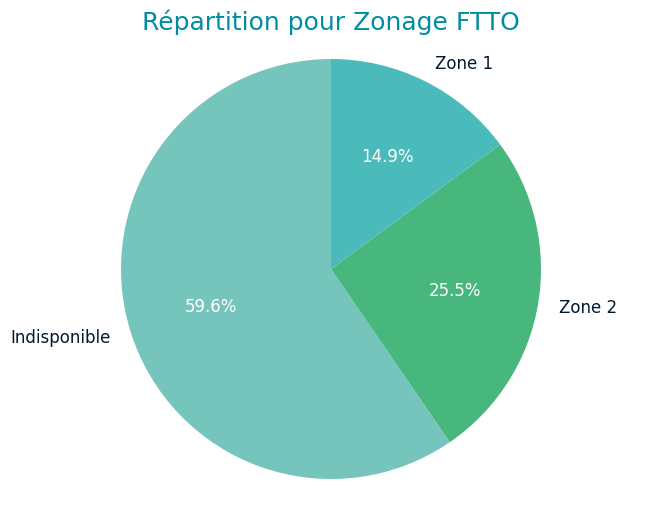
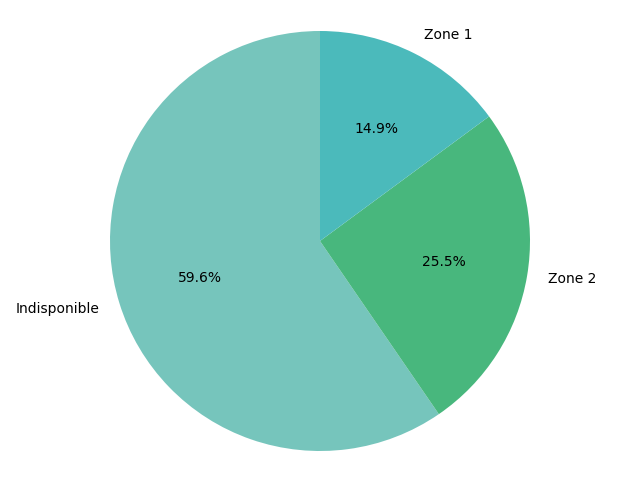
V1 Graph Generator

diff --git a/main.py b/main.py
@@ -1,73 +1,170 @@
-import os
+#############################
+#  By: Oscar Robert-Besle   #
+#  Last update : 3 May 2024 #
+#############################
+import tkinter as tk
+from tkinter import filedialog, messagebox, Checkbutton, IntVar, Scrollbar, Canvas
 import pandas as pd
 import matplotlib.pyplot as plt
-from reportlab.pdfgen import canvas
+from PIL import Image, ImageTk
+from PIL.Image import Resampling
+from reportlab.pdfgen import canvas as pdf_canvas
 from reportlab.lib.pagesizes import letter
 from reportlab.lib.units import inch
 from datetime import datetime
+import json
+import os
+import logging
 
-color_title = '#008DA2'  # Couleur du titre
-color_text = '#031930'  # Couleur des textes
-data_colors = ['#76C5BC','#48B77D','#4BBABB','#008DA2','#A9D249','#2B2171','#EAD83F','#EA504C']  # Couleurs des données
+APP_VERSION = "1.0.0"
+logging.basicConfig(level=logging.INFO, format='%(asctime)s - %(levelname)s - %(message)s')
 
-file_path = input("Veuillez entrer le chemin complet du fichier Excel : ")
+def load_config():
+    with open('config.json', 'r') as config_file:
+        return json.load(config_file)
 
-column_headers = ['Zonage FTTO', 'Choix Zonage FTTH - FTTO', 'Choix Zonage FTTH - FTTO - 4G']
+def load_data(file_path):
+    try:
+        df = pd.read_excel(file_path)
+        logging.info("Excel file loaded successfully.")
+        return df, df.columns.tolist()
+    except Exception as e:
+        messagebox.showerror("Error", f"Failed to load file: {str(e)}")
+        return None, []
 
-output_folder = 'rapports'
-os.makedirs(output_folder, exist_ok=True)
-
-logo_path = "logo.png"
-
-try:
-    df = pd.read_excel(file_path, sheet_name='Eligibilité_globale')
-    print("Fichier Excel chargé avec succès.")
-except Exception as e:
-    print(f"Erreur lors du chargement du fichier Excel : {e}")
-    exit()
-current_date = datetime.now().strftime('%Y_%m_%d')
-pdf_file_path = os.path.join(output_folder, f'Rapport_Analyse_{current_date}.pdf')
-c = canvas.Canvas(pdf_file_path, pagesize=letter)
-
-figsize = (8, 6)
-title_fontsize = 18
-autopct_fontsize = 12
-
-for header in column_headers:
-    if header in df.columns:
-        value_counts = df[header].value_counts()
-        if not value_counts.empty and value_counts.sum() > 0:
-            plt.figure(figsize=figsize)
-            patches, texts, autotexts = plt.pie(value_counts, labels=value_counts.index, autopct='%1.1f%%', startangle=90, colors=data_colors[:len(value_counts)])
-
-            for text in texts:
-                text.set_color(color_text)
-                text.set_fontsize(autopct_fontsize)
-            for autotext in autotexts:
-                autotext.set_color('white')
-                autotext.set_fontsize(autopct_fontsize)
-
-            plt.title(f'Répartition pour {header}', fontsize=title_fontsize, color=color_title)
-            plt.axis('equal')
-
-            img_file_path = os.path.join(output_folder, f'{header.replace(" - ", "_").replace(" ", "_")}.png')
-            plt.savefig(img_file_path, bbox_inches='tight')
-            plt.close()
-
-            c.setFont("Helvetica-Bold", title_fontsize)
-            c.setFillColor(color_title)
-            c.drawCentredString(letter[0] / 2, letter[1] - inch * 1.25, header)
-            c.drawImage(img_file_path, letter[0] / 2 - figsize[0] * inch / 2, letter[1] / 2 - figsize[1] * inch / 2 + 0.75 * inch, width=figsize[0] * inch, height=figsize[1] * inch, preserveAspectRatio=True)
-            c.setFont("Helvetica", 9)
-            c.setFillColor(color_text)
-            c.drawImage(logo_path, inch * 0.5, inch * 0.5, width=1 * inch, height=0.5 * inch, preserveAspectRatio=True)
-            c.drawString(2 * inch, inch * 0.5, f"Date de création : {datetime.now().strftime('%Y-%m-%d %H:%M:%S')}")
-
-            c.showPage()
+def generate_pie_charts(df, selected_columns, config, output_folder):
+    figsize = (10, 6)  # Adjusted for better visualization with side legends
+    for header in selected_columns:
+        if header in df.columns:
+            value_counts = df[header].value_counts()
+            if not value_counts.empty and value_counts.sum() > 0:
+                plt.figure(figsize=figsize)
+                patches, texts, autotexts = plt.pie(value_counts, startangle=90, colors=config['data_colors'][:len(value_counts)], autopct='%1.1f%%')
+                plt.legend(patches, [f'{l}: {s}' for l, s in zip(value_counts.index, value_counts)], title="Categories", loc="center left", bbox_to_anchor=(1, 0, 0.5, 1))
+                plt.axis('equal')
+                img_file_path = os.path.join(output_folder, f'{header.replace(" - ", "_").replace(" ", "_")}.png')
+                plt.savefig(img_file_path, bbox_inches='tight')
+                plt.close()
+                yield header, img_file_path
+            else:
+                logging.info(f"No data to graph for {header}.")
         else:
-            print(f"Aucune donnée à grapher pour {header}.")
-    else:
-        print(f"La colonne {header} n'a pas été trouvée dans le fichier.")
+            logging.warning(f"Column {header} not found in the file.")
 
-c.save()
-print(f"Le fichier PDF a été généré avec succès : {pdf_file_path}")
+
+def create_pdf_report(config, charts, output_folder):
+    pdf_file_path = os.path.join(output_folder, f'Rapport_Analyse_{datetime.now().strftime("%Y_%m_%d")}.pdf')
+    c = pdf_canvas.Canvas(pdf_file_path, pagesize=letter)
+    width, height = letter
+    for header, img_file_path in charts:
+        img_width, img_height = 8 * inch, 6 * inch
+        title_y_position = height - 1.5 * inch
+        image_x = (width - img_width) / 2
+        image_y = (height - img_height) / 2
+        c.setFont("Helvetica-Bold", 18)
+        c.setFillColor(config['color_title'])
+        c.drawCentredString(width / 2, title_y_position, header)
+        c.drawImage(img_file_path, image_x, image_y, width=img_width, height=img_height, preserveAspectRatio=True)
+        c.drawImage(config['logo_path'], inch * 0.5, inch * 0.5, width=1 * inch, height=0.5 * inch, preserveAspectRatio=True)
+        c.setFont("Helvetica", 9)
+        c.setFillColor(config['color_text'])
+        c.drawString(2 * inch, inch * 0.25, f"Date de création : {datetime.now().strftime('%Y-%m-%d %H:%M:%S')}")
+        c.showPage()
+    c.save()
+    messagebox.showinfo("Success", f"PDF file has been generated successfully: {pdf_file_path}")
+
+class App:
+    def __init__(self, root):
+        self.root = root
+        self.df = None
+        self.columns = []
+        self.column_vars = []
+        self.output_folder = ""
+
+        root.title('Report Generator')
+        config = load_config()
+
+        # Layout using frames
+        top_frame = tk.Frame(root)
+        top_frame.pack(pady=10, padx=10, fill='x')
+        middle_frame = tk.Frame(root)
+        middle_frame.pack(pady=10, padx=10, fill='both', expand=True)
+        bottom_frame = tk.Frame(root)
+        bottom_frame.pack(pady=10, padx=10, fill='x')
+
+        # Logo
+        logo_image = Image.open(config['logo_path'])
+        logo_image = logo_image.resize((100, 50), Resampling.LANCZOS)
+        logo_photo = ImageTk.PhotoImage(logo_image)
+        logo_label = tk.Label(top_frame, image=logo_photo)
+        logo_label.image = logo_photo
+        logo_label.pack(side='left')
+
+        # File and Folder Buttons
+        tk.Button(top_frame, text="Open Excel File", command=self.open_file).pack(side='left', padx=10)
+        tk.Button(top_frame, text="Select Output Folder", command=self.select_output_folder).pack(side='left', padx=10)
+
+        # Column Selection Area with Scrollbar
+        self.columns_canvas = tk.Canvas(middle_frame)
+        self.columns_frame = tk.Frame(self.columns_canvas)
+        self.vsb = tk.Scrollbar(middle_frame, orient="vertical", command=self.columns_canvas.yview)
+        self.columns_canvas.configure(yscrollcommand=self.vsb.set)
+
+        self.vsb.pack(side="right", fill="y")
+        self.columns_canvas.pack(side="left", fill="both", expand=True)
+        self.columns_canvas.create_window((4,4), window=self.columns_frame, anchor="nw", tags="self.columns_frame")
+
+        self.columns_frame.bind("<Configure>", self.onFrameConfigure)
+        self.columns_canvas.bind_all("<MouseWheel>", self.onMouseWheel)  # Bind mouse wheel event
+
+        # Generate Report Button
+        tk.Button(bottom_frame, text="Generate Report", command=self.generate).pack()
+        version_label = tk.Label(top_frame, text=f"Version: {APP_VERSION}")
+        version_label.pack(side='left', padx=10)
+
+    def open_file(self):
+        file_path = filedialog.askopenfilename(title="Select Excel File", filetypes=[("Excel files", "*.xlsx *.xls *.xlsm")])
+        if file_path:
+            self.df, self.columns = load_data(file_path)
+            if self.df is not None:
+                for widget in self.columns_frame.winfo_children():
+                    widget.destroy()
+                self.column_vars = []
+                for column in self.columns:
+                    var = IntVar()
+                    chk = Checkbutton(self.columns_frame, text=column, variable=var)
+                    chk.pack(anchor='w')
+                    self.column_vars.append((var, column))
+
+    def onFrameConfigure(self, event):
+        '''Reset the scroll region to encompass the inner frame'''
+        self.columns_canvas.configure(scrollregion=self.columns_canvas.bbox("all"))
+
+    def onMouseWheel(self, event):
+        """Handle mouse wheel scroll for Windows and Unix systems."""
+        if self.root.tk.call('tk', 'windowingsystem')=='win32':
+            self.columns_canvas.yview_scroll(int(-1*(event.delta/120)), "units")
+        else:
+            self.columns_canvas.yview_scroll(int(-1*event.delta), "units")
+
+    def select_output_folder(self):
+        folder_selected = filedialog.askdirectory()
+        if folder_selected:
+            self.output_folder = folder_selected
+            logging.info(f"Output folder selected: {self.output_folder}")
+
+    def generate(self):
+        if not self.output_folder:
+            messagebox.showerror("Error", "Please select an output folder first.")
+            return
+        selected_columns = [var_column[1] for var_column in self.column_vars if var_column[0].get() == 1]
+        if not selected_columns:
+            messagebox.showerror("Error", "No columns selected.")
+            return
+        charts = generate_pie_charts(self.df, selected_columns, load_config(), self.output_folder)
+        create_pdf_report(load_config(), charts, self.output_folder)
+
+if __name__ == "__main__":
+    root = tk.Tk()
+    app = App(root)
+    root.mainloop()
